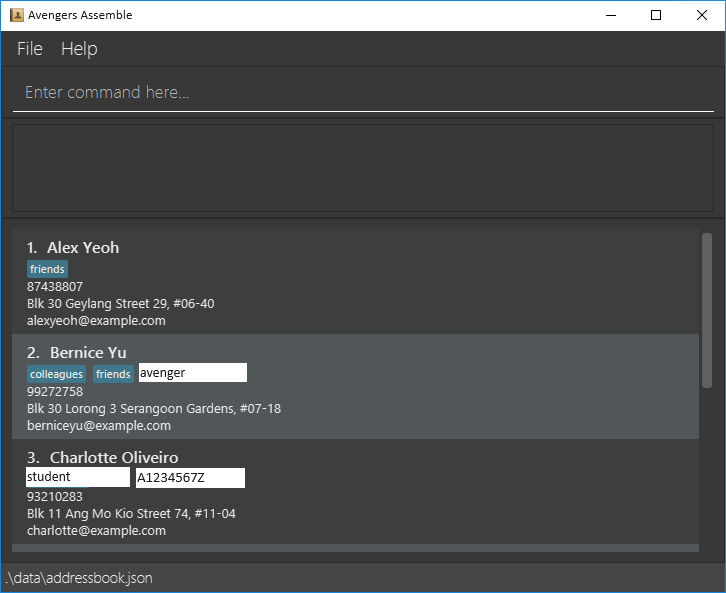
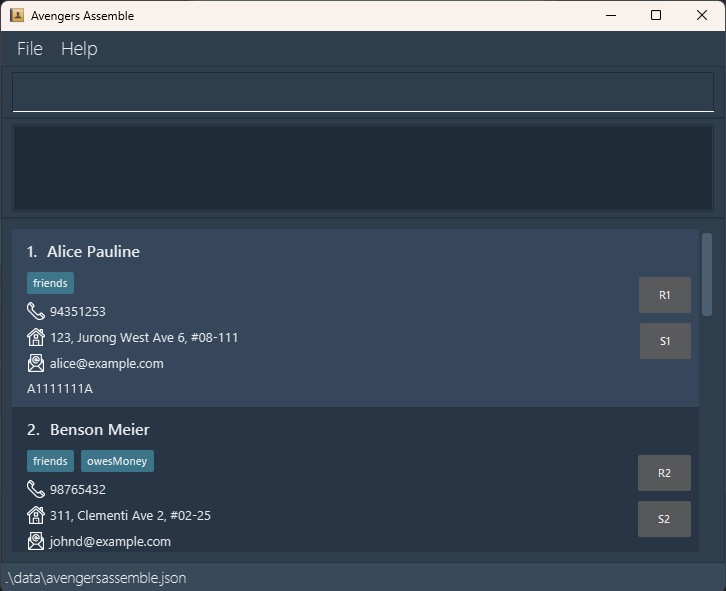
Update quick guide in User Guide
Updated `Ui.png` to inlcude our current Ui
Added link to our github release

diff --git a/docs/UserGuide.md b/docs/UserGuide.md
@@ -15,13 +15,17 @@ Avengers Assemble (AA) is a **desktop app for managing contacts, optimized for u
 
 ## Quick start
 
-1. Ensure you have Java `11` or above installed in your computer.
+1. Ensure you have `Java 11` or above installed in your computer.
 
-1. Download the latest `avengersassemble.jar`.
+1. Download the latest `avengersassemble.jar` [here](https://github.com/AY2324S2-CS2103T-T10-1/tp/releases/tag/v1.2).
 
-1. Copy the file to the folder you want to use as the _home folder_ for your AA.
+1. Copy the file to the folder you want to use as the _home folder_ for our application.
 
 1. Open a command terminal, `cd` into the folder you put the jar file in, and use the `java -jar avengersassemble.jar` command to run the application.<br>
+   ```dtd
+    cd <path_to_the_folder_containing_the_jar_file>
+    java -jar avengersassemble.jar
+    ```
    A GUI similar to the below should appear in a few seconds. Note how the app contains some sample data.<br>
    ![Ui](images/Ui.png)
 
@@ -30,7 +34,10 @@ Avengers Assemble (AA) is a **desktop app for managing contacts, optimized for u
 
    * `list` : Lists all persons.
 
-   * `add n/John Doe p/98765432 e/johnd@example.com a/John street, block 123, #01-01 m/A1234567Z` : Adds a person named `John Doe` to AA.
+   * ```
+     add n/John Doe p/98765432 e/johnd@example.com a/John street, block 123, #01-01 m/A1234567Z
+     ``` 
+     Adds a person named `John Doe` to our app.
 
    * `delete 3` : Deletes the 3rd person shown in the current list.
 
